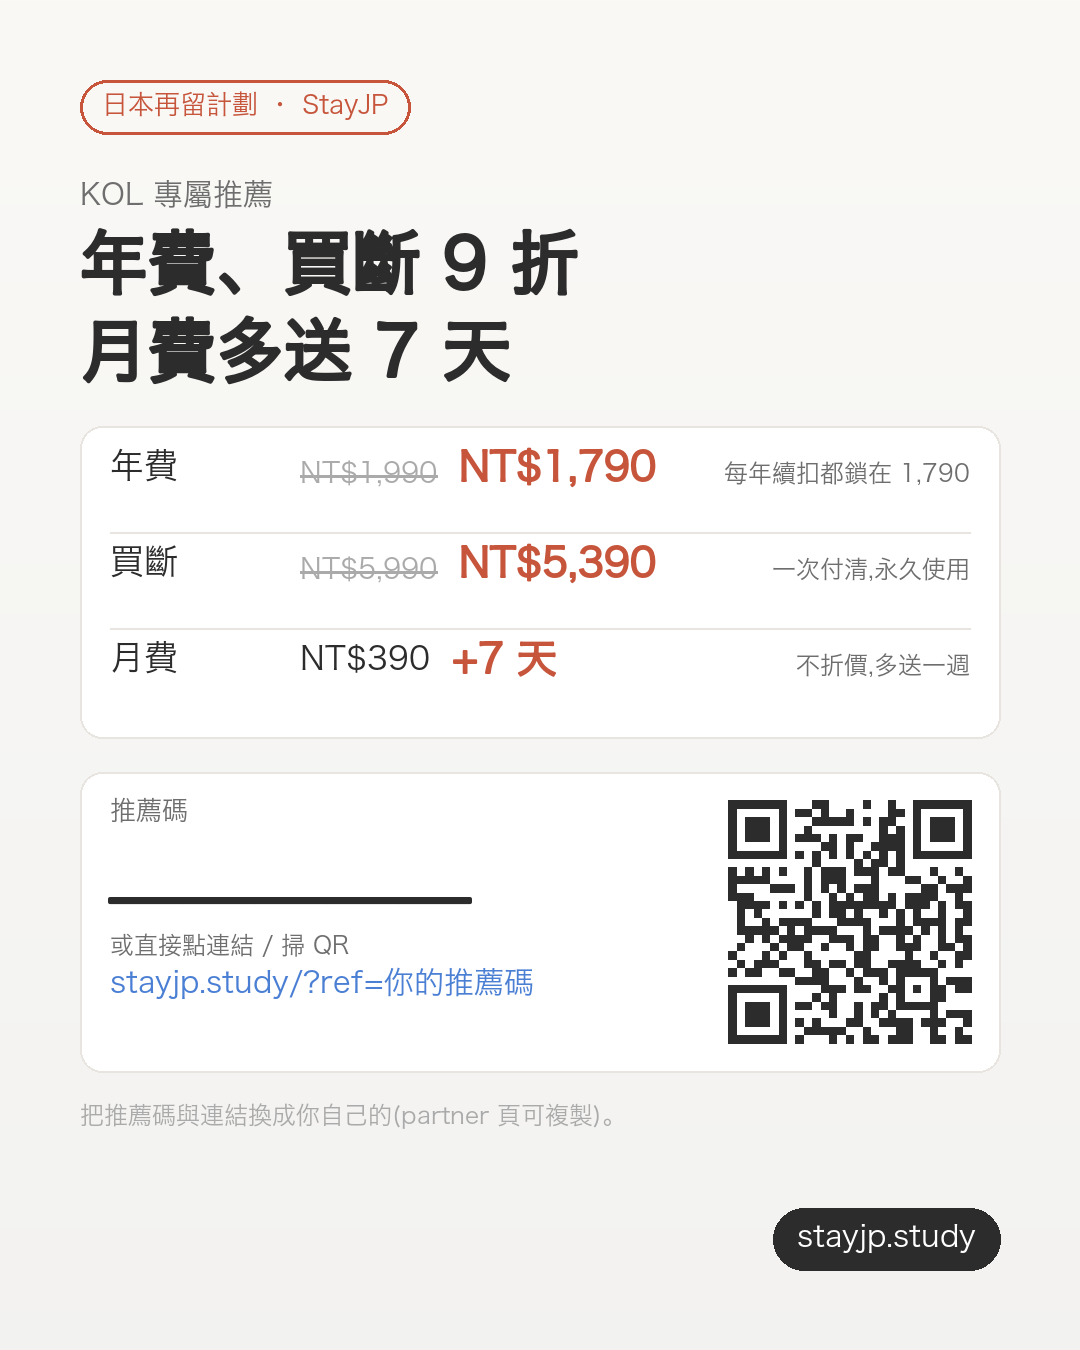
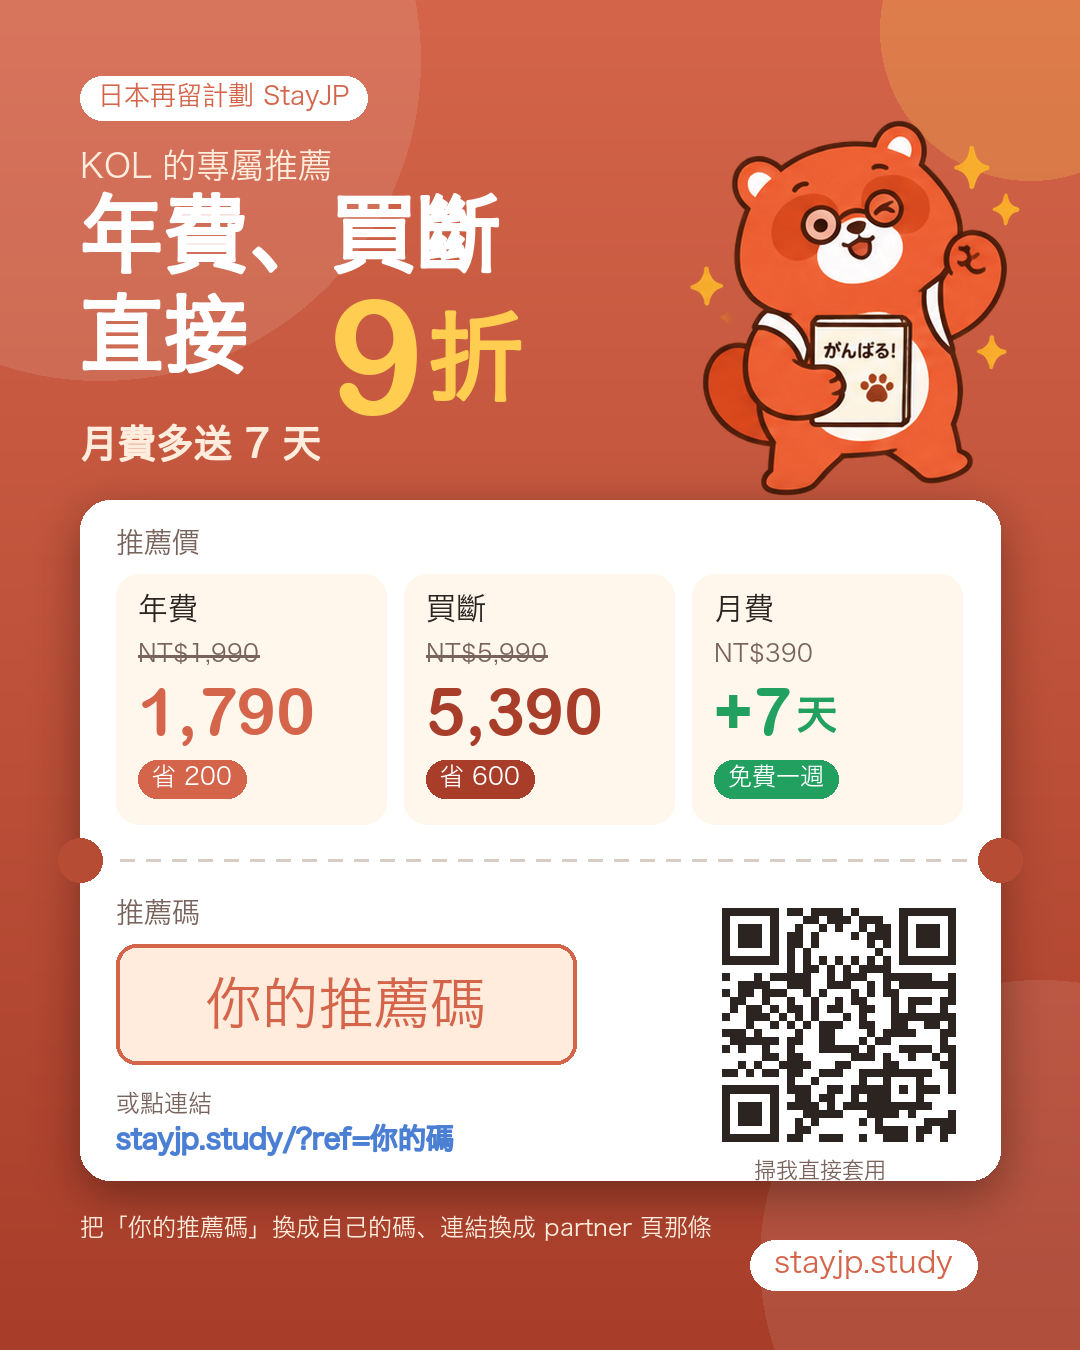
social:推薦價宣傳圖重做(優惠券風格+小狸+重點色塊+QR);產圖腳本 scripts/gen-ref-promo.py

diff --git a/scripts/gen-ref-promo.py b/scripts/gen-ref-promo.py
@@ -1,0 +1,136 @@
+# 推薦價宣傳圖 v2:生動版。橘紅漸層底、大字 9 折、優惠券卡片(虛線撕票口)、吉祥物小狸、重點色塊、QR。
+# 三版本 × 2 張:1=優惠券(折扣+碼+連結+QR)、2=三步驟(iPhone 路徑放大,網頁/Android 小列)。1080×1350。
+from PIL import Image, ImageDraw, ImageFont, ImageFilter
+import qrcode, os, math
+OUT = '/Users/linyurou/Documents/GitHub/stay-jp-notes/images/social/ref917'
+MAS = '/Users/linyurou/Documents/GitHub/stay-jp-notes/images/mascot'
+W, H = 1080, 1350
+CJK = '/System/Library/Fonts/Hiragino Sans GB.ttc'
+NUM = '/System/Library/Fonts/Supplemental/Arial Rounded Bold.ttf'
+ORANGE, DEEP, CREAM, INK, MUTED, YEL, GREEN, BLUE, WHITE = (212, 101, 74), (168, 62, 42), (255, 246, 236), (44, 36, 32), (120, 100, 92), (255, 205, 80), (34, 160, 96), (74, 127, 212), (255, 255, 255)
+def F(size, bold=True): return ImageFont.truetype(CJK, size, index=1 if bold else 0)
+def N(size): return ImageFont.truetype(NUM, size)
+def T(d, xy, s, f, fill=INK, stroke=0, anchor=None): d.text(xy, s, font=f, fill=fill, stroke_width=stroke, stroke_fill=fill, anchor=anchor)
+def mascot(name, w):
+    im = Image.open(os.path.join(MAS, name)).convert('RGBA'); r = w / im.width; return im.resize((w, int(im.height * r)), Image.LANCZOS)
+def shadow(im, box, radius, blur=18, alpha=70, dy=10):
+    x0, y0, x1, y1 = box; sh = Image.new('RGBA', im.size, (0, 0, 0, 0)); ImageDraw.Draw(sh).rounded_rectangle([x0, y0 + dy, x1, y1 + dy], radius=radius, fill=(0, 0, 0, alpha)); im.alpha_composite(sh.filter(ImageFilter.GaussianBlur(blur)))
+def gradient_bg():
+    im = Image.new('RGBA', (W, H)); d = ImageDraw.Draw(im)
+    for y in range(H):
+        t = y / H; c = tuple(int(ORANGE[i] * (1 - t) + DEEP[i] * t) for i in range(3)) + (255,); d.line([(0, y), (W, y)], fill=c)
+    # 大圓形裝飾
+    dec = Image.new('RGBA', (W, H), (0, 0, 0, 0)); dd = ImageDraw.Draw(dec)
+    dd.ellipse([-220, -260, 420, 380], fill=(255, 255, 255, 26)); dd.ellipse([760, 980, 1320, 1540], fill=(255, 255, 255, 22)); dd.ellipse([880, -120, 1180, 180], fill=(255, 205, 80, 60))
+    im.alpha_composite(dec); return im
+def pill(d, x, y, s, f, fg, bg, padx=18, pady=9):
+    w = d.textlength(s, font=f); h = f.size + pady * 2
+    d.rounded_rectangle([x, y, x + w + padx * 2, y + h], radius=h // 2, fill=bg); d.text((x + padx, y + pady - 2), s, font=f, fill=fg); return w + padx * 2
+def perforation(d, y, x0, x1, bg):
+    # 撕票口:兩側半圓 + 中間虛線
+    d.ellipse([x0 - 22, y - 22, x0 + 22, y + 22], fill=bg); d.ellipse([x1 - 22, y - 22, x1 + 22, y + 22], fill=bg)
+    x = x0 + 40
+    while x < x1 - 40: d.line([(x, y), (x + 14, y)], fill=(215, 205, 195), width=3); x += 26
+
+def coupon(name, who, code, link, foot):
+    im = gradient_bg(); d = ImageDraw.Draw(im)
+    # 頂部標籤 + 標題
+    pill(d, 80, 76, '日本再留計劃 StayJP', F(26), ORANGE, WHITE)
+    T(d, (80, 150), who, F(34), (255, 236, 220))
+    T(d, (80, 196), '年費、買斷', F(84), WHITE, 2)
+    T(d, (80, 296), '直接', F(84), WHITE, 2)
+    # 大 9折(黃)
+    T(d, (330, 262), '9', N(160), YEL); T(d, (428, 314), '折', F(96), YEL, 2)
+    T(d, (80, 426), '月費多送 7 天', F(38), (255, 236, 220), 1)
+    # 小狸(右上,蓋在標題右側)
+    m = mascot('tanuki-p06.png', 330); im.alpha_composite(m, (W - 60 - m.width, 120))
+    # 優惠券卡
+    cx0, cy0, cx1, cy1 = 80, 500, W - 80, 1180
+    shadow(im, (cx0, cy0, cx1, cy1), 30, blur=22, alpha=90, dy=14); d = ImageDraw.Draw(im)
+    d.rounded_rectangle([cx0, cy0, cx1, cy1], radius=30, fill=WHITE)
+    # 上半:三個價格塊
+    T(d, (cx0 + 36, cy0 + 30), '推薦價', F(28), MUTED)
+    blocks = [('年費', 'NT$1,990', '1,790', '省 200', ORANGE), ('買斷', 'NT$5,990', '5,390', '省 600', DEEP), ('月費', 'NT$390', '+7天', '免費一週', GREEN)]
+    bw = (cx1 - cx0 - 72 - 2 * 18) // 3; bx = cx0 + 36; by = cy0 + 74
+    for lbl, old, new, tag, col in blocks:
+        d.rounded_rectangle([bx, by, bx + bw, by + 250], radius=22, fill=CREAM)
+        T(d, (bx + 22, by + 20), lbl, F(30), INK)
+        if lbl != '月費':
+            ow = d.textlength(old, font=F(24, False)); T(d, (bx + 22, by + 66), old, F(24, False), MUTED); d.line([(bx + 22, by + 82), (bx + 22 + ow, by + 82)], fill=MUTED, width=3)
+            T(d, (bx + 22, by + 98), new, N(66), col)
+        else:
+            T(d, (bx + 22, by + 66), old, F(24, False), MUTED)
+            T(d, (bx + 22, by + 98), '+7', N(66), col); T(d, (bx + 22 + d.textlength('+7', font=N(66)) + 6, by + 122), '天', F(40), col, 1)
+        pill(d, bx + 22, by + 186, tag, F(24), WHITE, col, padx=14, pady=7)
+        bx += bw + 18
+    # 撕票口
+    py = cy0 + 360; perforation(d, py, cx0, cx1, (0, 0, 0, 0))
+    # 用背景色蓋撕票口半圓(讓它看起來被撕掉):重畫漸層色近似
+    for cx in (cx0, cx1):
+        t = py / H; c = tuple(int(ORANGE[i] * (1 - t) + DEEP[i] * t) for i in range(3)) + (255,); d.ellipse([cx - 22, py - 22, cx + 22, py + 22], fill=c)
+    # 下半:碼 / 連結 / QR
+    qr = qrcode.QRCode(box_size=10, border=1); qr.add_data(link); qr.make(fit=True)
+    qim = qr.make_image(fill_color='#2C2420', back_color='white').convert('RGBA').resize((250, 250), Image.NEAREST)
+    im.alpha_composite(qim, (cx1 - 36 - 250, py + 40)); d = ImageDraw.Draw(im)
+    T(d, (cx1 - 36 - 250 + 40, py + 300), '掃我直接套用', F(22), MUTED)
+    if code:
+        T(d, (cx0 + 36, py + 40), '推薦碼', F(28), MUTED)
+        d.rounded_rectangle([cx0 + 36, py + 84, cx0 + 36 + 460, py + 84 + 120], radius=20, fill=(255, 236, 220), outline=ORANGE, width=4)
+        T(d, (cx0 + 36 + 230, py + 84 + 60), code, (N(78) if len(code) <= 7 else N(56)) if code.isascii() else F(56), ORANGE, anchor='mm')
+        T(d, (cx0 + 36, py + 232), '或點連結', F(24), MUTED)
+        T(d, (cx0 + 36, py + 266), link.replace('https://', ''), F(28), BLUE, 1)
+    else:
+        T(d, (cx0 + 36, py + 40), '拿到推薦碼或連結?', F(30), INK, 1)
+        T(d, (cx0 + 36, py + 92), '點連結 / 掃 QR', F(26), MUTED)
+        T(d, (cx0 + 36, py + 130), link.replace('https://', ''), F(30), BLUE, 1)
+        T(d, (cx0 + 36, py + 200), '或到網頁方案頁輸入推薦碼', F(24), MUTED)
+        T(d, (cx0 + 36, py + 240), 'iPhone 請一律點連結', F(24), ORANGE, 1)
+    # 底部一行 + 網址
+    T(d, (80, 1216), foot, F(24), (255, 236, 220))
+    pill(d, W - 80 - 250, 1240, 'stayjp.study', F(30), ORANGE, WHITE, padx=24, pady=10)
+    im.convert('RGB').save(os.path.join(OUT, name), quality=92); print('wrote', name)
+
+def steps(name, link, pending_note):
+    im = Image.new('RGBA', (W, H), CREAM + (255,)); d = ImageDraw.Draw(im)
+    # 頂部橘色帶
+    d.rectangle([0, 0, W, 300], fill=ORANGE + (255,)); dec = Image.new('RGBA', (W, H), (0, 0, 0, 0)); dd = ImageDraw.Draw(dec); dd.ellipse([780, -160, 1220, 280], fill=(255, 255, 255, 30)); im.alpha_composite(dec); d = ImageDraw.Draw(im)
+    pill(d, 80, 60, '日本再留計劃 StayJP', F(26), ORANGE, WHITE)
+    T(d, (80, 130), '推薦價怎麼拿?', F(76), WHITE, 2)
+    T(d, (80, 226), '照著做 3 步,價格自己變', F(32), (255, 236, 220))
+    m = mascot('tanuki-p08.png', 250); im.alpha_composite(m, (W - 70 - m.width, 60)); d = ImageDraw.Draw(im)
+    # iPhone 主流程(大)
+    y = 340
+    d.rounded_rectangle([80, y, W - 80, y + 560], radius=30, fill=WHITE + (255,), outline=ORANGE + (255,), width=4)
+    pill(d, 110, y + 26, 'iPhone 用戶看這裡', F(28), WHITE, ORANGE, padx=20, pady=9)
+    T(d, (W - 110, y + 40), '只能走連結,App 內沒有輸碼欄', F(22), MUTED, anchor='ra')
+    st = [('用 Safari 點推薦連結', link.replace('https://', '')), ('按「在 App 開啟」', '沒裝 App 先安裝,再登入一次'), ('方案頁自動變推薦價', '直接購買就好,不用輸入任何東西')]
+    sy = y + 100
+    for i, (t1, t2) in enumerate(st):
+        cx, cy = 150, sy + 40
+        if i < 2: d.line([(cx, cy + 40), (cx, cy + 150 - 40)], fill=(240, 200, 185), width=6)
+        d.ellipse([cx - 40, cy - 40, cx + 40, cy + 40], fill=ORANGE); T(d, (cx, cy), str(i + 1), N(46), WHITE, anchor='mm')
+        T(d, (220, sy + 6), t1, F(38), INK, 1)
+        T(d, (220, sy + 60), t2, F(26, False), MUTED if i != 0 else BLUE)
+        sy += 150
+    # 網頁 / Android 小列
+    y2 = y + 590
+    half = (W - 160 - 20) // 2
+    for k, (title, col, lines) in enumerate([('網頁', BLUE, ['stayjp.study 方案頁', '輸入推薦碼(或點連結)', '登入 → 結帳']), ('Android', GREEN, ['App → 升級 Premium', '點「有推薦碼?」輸入', '選方案 → 購買'])]):
+        x0 = 80 + k * (half + 20)
+        d.rounded_rectangle([x0, y2, x0 + half, y2 + 250], radius=24, fill=WHITE + (255,))
+        pill(d, x0 + 22, y2 + 22, title, F(26), WHITE, col, padx=16, pady=7)
+        ly = y2 + 90
+        for j, ln in enumerate(lines):
+            d.ellipse([x0 + 22, ly + 6, x0 + 46, ly + 30], fill=col); T(d, (x0 + 34, ly + 18), str(j + 1), N(18), WHITE, anchor='mm')
+            T(d, (x0 + 60, ly + 2), ln, F(24, False), INK); ly += 48
+    # 底部:好康提醒 + 網址
+    T(d, (80, 1220), pending_note, F(24), ORANGE if pending_note.startswith('※') else MUTED)
+    pill(d, W - 80 - 250, 1240, 'stayjp.study', F(30), WHITE, INK, padx=24, pady=10)
+    im.convert('RGB').save(os.path.join(OUT, name), quality=92); print('wrote', name)
+
+coupon('official-1.png', '拿到推薦碼或連結的人', '', 'https://stayjp.study/pricing.html', '年費往後每年續扣都鎖 1,790 · 買斷一次付清永久使用')
+steps('official-2.png', 'https://stayjp.study/?ref=推薦碼', '年費 1,790 · 買斷 5,390 · 月費 +7 天,三種都算推薦')
+coupon('captain-1.png', '英文艦長 的專屬推薦', '666666', 'https://stayjp.study/?ref=666666', '年費往後每年續扣都鎖 1,790 · 買斷一次付清永久使用')
+steps('captain-2.png', 'https://stayjp.study/?ref=666666', '推薦碼 666666 · 網頁與 Android 可直接輸入')
+coupon('kol-template-1.png', 'KOL 的專屬推薦', '你的推薦碼', 'https://stayjp.study/?ref=你的碼', '把「你的推薦碼」換成自己的碼、連結換成 partner 頁那條')
+steps('kol-template-2.png', 'https://stayjp.study/?ref=你的碼', '連結在 partner 頁一鍵複製,碼與連結都是你專屬的')
